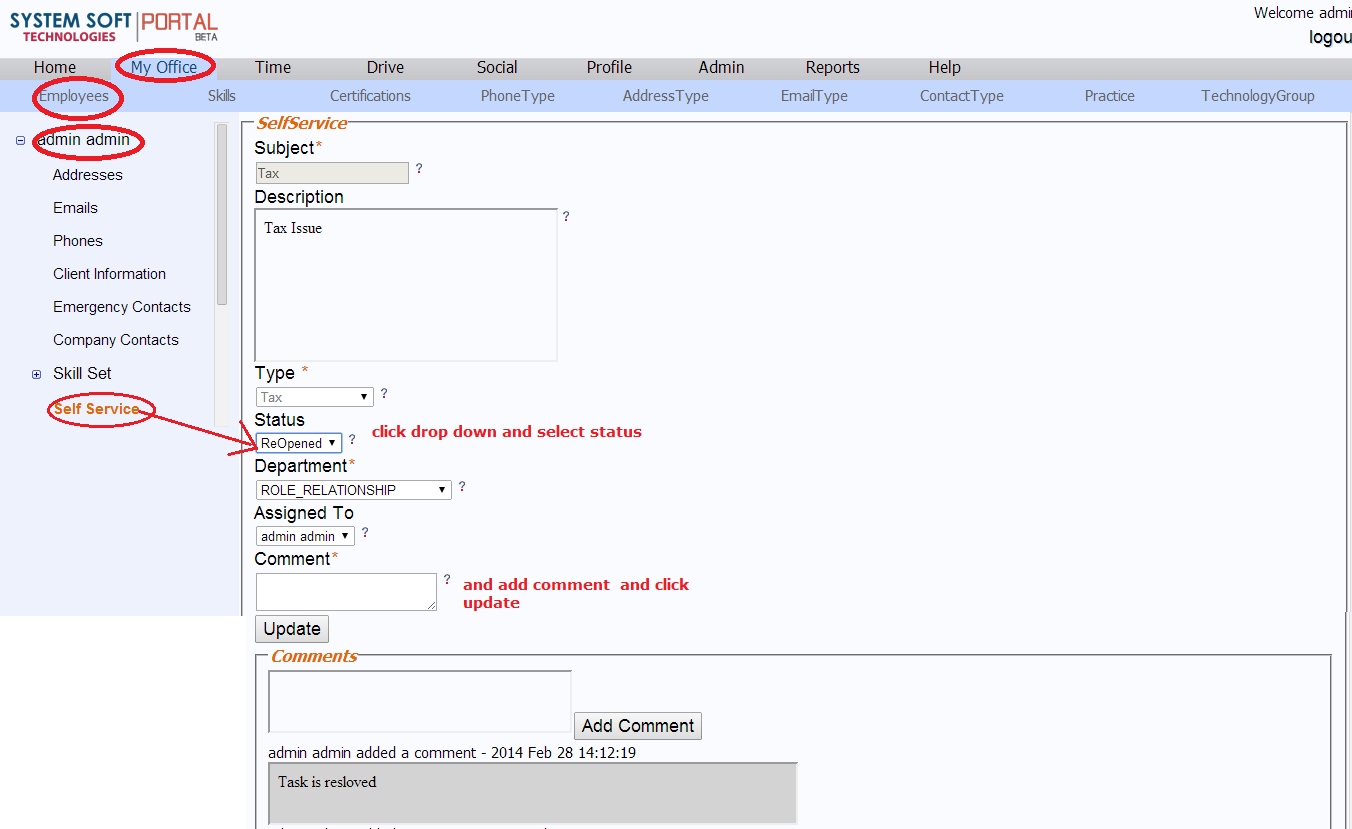
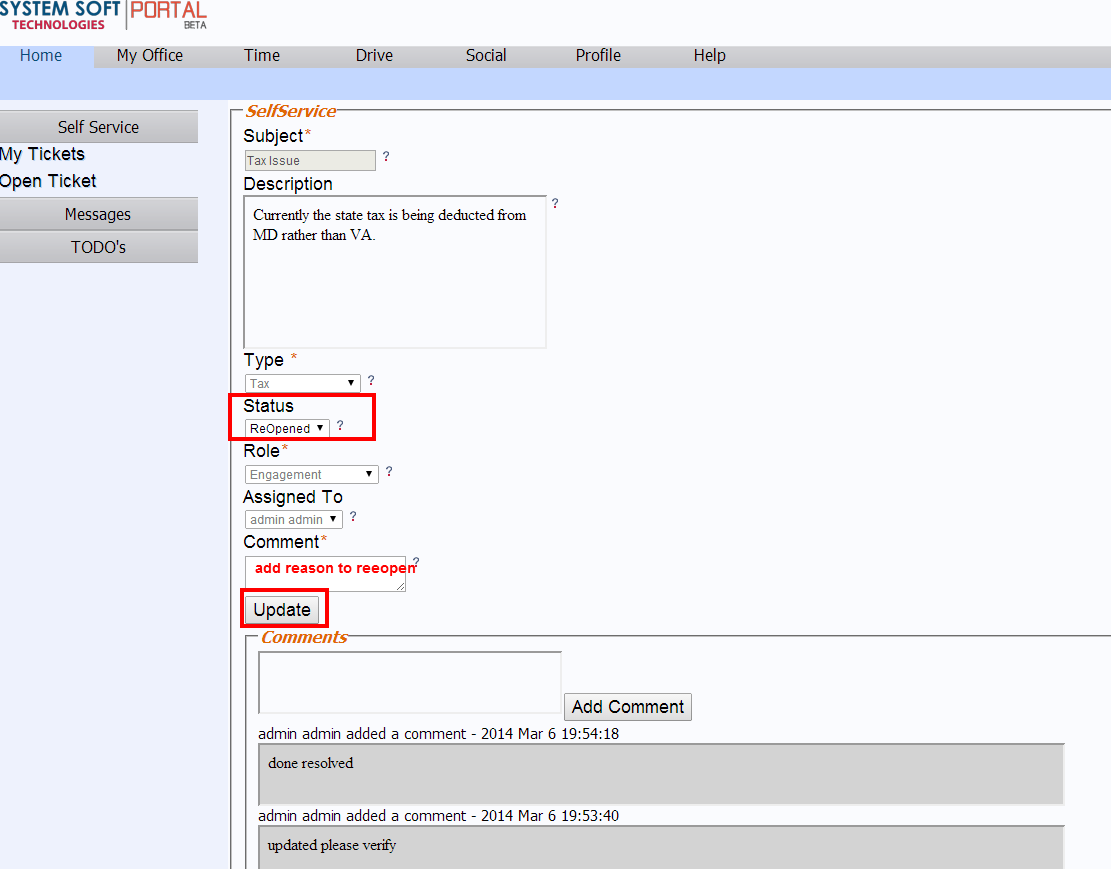
git-svn-id: http://tools.sstech.us/svn/office/trunk@4143 04aae24c-3eb2-d842-8c26-b4285eb26770

Changed region(s): [[0.0, 0.0, 1.0, 1.0]]

diff --git a/office-master/office-doc/src/site/markdown/office/selfservice/manage-tickets.md b/office-master/office-doc/src/site/markdown/office/selfservice/manage-tickets.md
@@ -1,14 +1,20 @@
-Service Ticket Process
-----------------------
+Resolving Service Tickets
+-----
+
  - When a employee opens a ticket a email notification and a Task is send to department the ticket is assigned.
  - Any employee from the department can claim the ticket by going to  My Office--> Search Employee (who opened the ticket) --> View --> Self Service --> View Ticket and updating the status to **In Progress**
- # TODO add screen shot for this
 ![alt text](../../images/selfservice/view-service-ticket.png "Self Service")
  - All the communication with regard to the ticket should be made through comments section so its easy to track and audit. Also when any comment or updated made to the ticket a email notification is sent to the entire chain involved.
  - Each ticket type has a Service Level agreement (the default is 7 days) and if the ticket is not resolved within the SLA with cause a Escalation Task and Email send to Admin along with all parties.
  - Once the ticket is Resolved or Rejected with appropriate comments and notes the Task will automatically be removed from the department queue.
  - The Employee has the option to re open the ticket if he's not satisfied or think the resolution is incomplete and the process repeats.
 > **Note:** If the Ticket Type is **Other** it will stay in Engagement Team queue until the actual team responsible is determined and assigned.
+
+Manage Ticket
+-----
+
+![alt text](../../images/selfservice/manage-tickets.png "Self Service")
+
 #### Ticket State Diagram.
 
 

diff --git a/office-master/office-doc/src/site/markdown/office/selfservice/open-ticket.md b/office-master/office-doc/src/site/markdown/office/selfservice/open-ticket.md
@@ -1,7 +1,7 @@
 
 Open Ticket
 ----------
-
+- [Overview](../../office/selfservice/overview.html "Overview")
 - open service ticket from Home-->Self Service Tab as show below.
 - you will be receiving email notifications about all updates to your ticket.
 - you can add comments/reply to any questions about your ticket.
@@ -9,7 +9,7 @@ Open Ticket
 - In case you are not satisfied with the resolution or you feel its not complete you have a options to Re Open the ticket.
 - you can always view the latest status of the ticket from Self Service Tab.
 
-Open Ticket
+New Ticket
 ---------------
 **goto home tab>>- select self service>>-select open ticket**
 ![alt text](../../images/selfservice/open-service-ticket.png "Self Service")

diff --git a/office-master/office-doc/src/site/markdown/office/selfservice/overview.md b/office-master/office-doc/src/site/markdown/office/selfservice/overview.md
@@ -1,5 +1,5 @@
 Self Service
----------
+-----
 
 **Self Service** feature is a online support center aimed to resolve various requests or issues in a number of areas like
 
@@ -18,10 +18,3 @@ This feature is supported by a business process that
 
 - sends notification to all parties when a the ticket is updated.
 - sends escalation emails to appropriate departments and person when action is taken within certain time limit
-
-Open Ticket
-----------
-
-# ADD SCREEN SHOT for new ticket
-
-# ADD SCREEN SHOT for add comment on ticket
